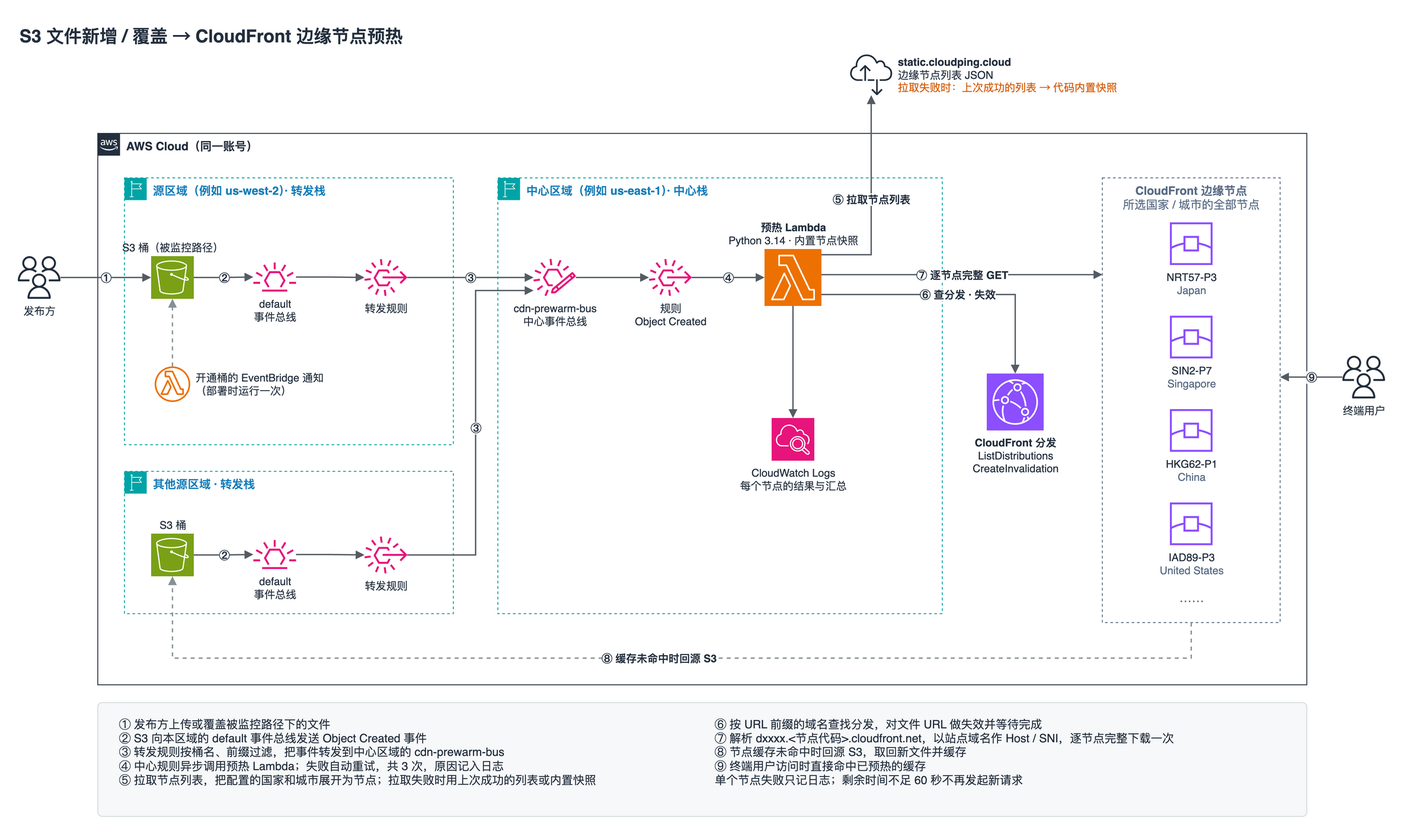
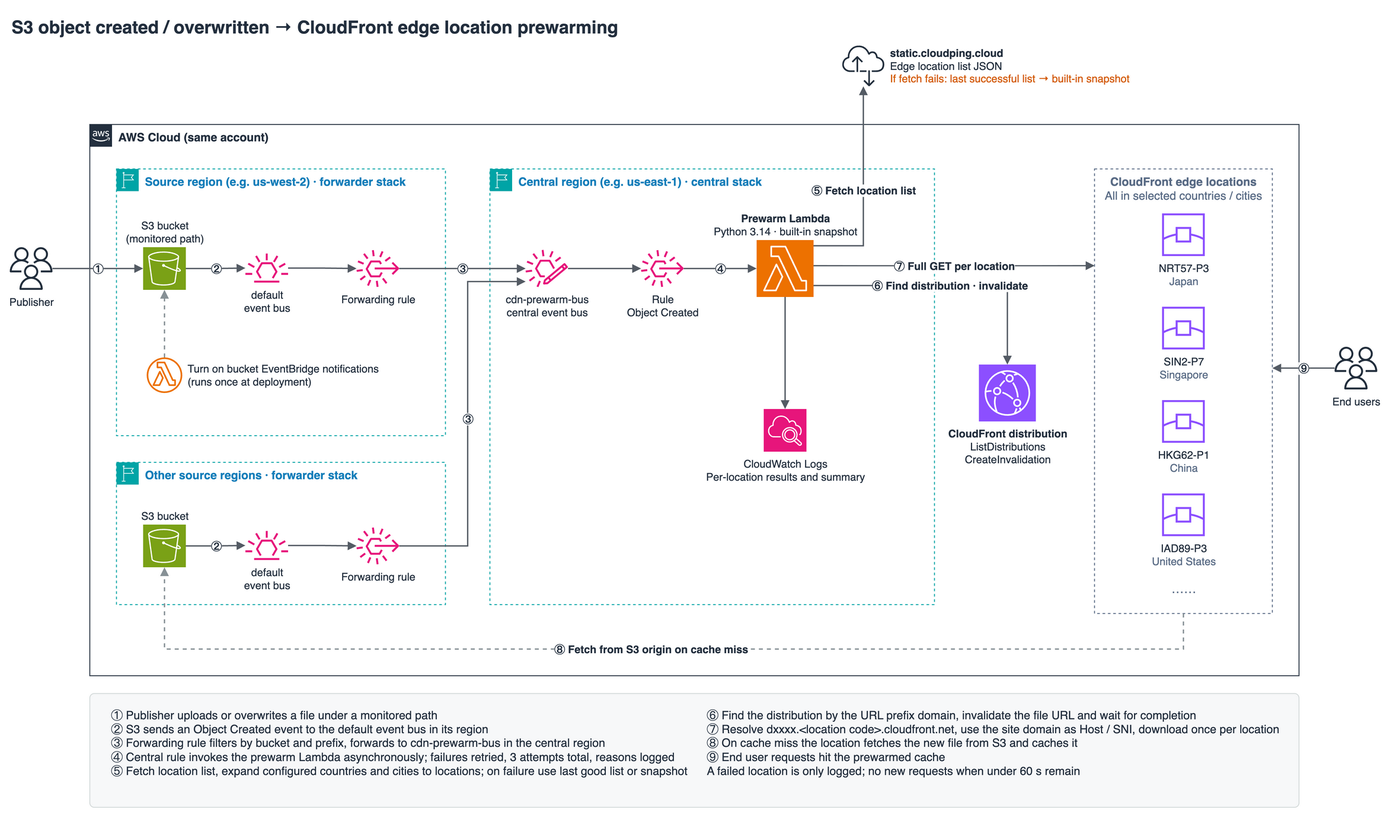
Translate README and architecture diagram to English

diff --git a/README.md b/README.md
@@ -1,39 +1,39 @@
-# CloudFront 边缘节点预热
+# CloudFront Edge Location Prewarming
 
-S3 指定路径下有对象新增或覆盖时，Lambda 到指定国家或城市的每个 CloudFront 边缘节点各完整下载一次该对象，让这些节点提前缓存最新版本。
+When an object is created or overwritten under a configured S3 path, a Lambda function downloads that object once, in full, from every CloudFront edge location in the configured countries or cities, so those locations cache the latest version ahead of user requests.
 
-![架构图](architecture.png)
+![Architecture diagram](architecture.png)
 
-架构图源文件是 `architecture.drawio`，可以用 draw.io 打开编辑。`architecture.png` 里也嵌入了图的源数据，同样可以直接用 draw.io 打开。
+The diagram source is `architecture.drawio`, which you can open and edit in draw.io. `architecture.png` also embeds the diagram source, so draw.io can open it directly too.
 
 ```
-各区域 S3 桶 ──(Object Created)──> 该区域 default 事件总线
-                                      │ 转发规则（按桶名、可选按前缀过滤）
+S3 bucket in each region ──(Object Created)──> default event bus in that region
+                                      │ forwarding rule (filters by bucket name, optionally by prefix)
                                       ▼
-                         中心区域 cdn-prewarm-bus ──> 预热 Lambda
-                                                        ├─ 1. CloudFront 失效该 URL，等待完成
-                                                        └─ 2. 逐节点 GET <域名>/<路径>
+                         cdn-prewarm-bus in central region ──> prewarm Lambda
+                                                        ├─ 1. Invalidate the URL in CloudFront and wait for completion
+                                                        └─ 2. GET <domain>/<path> from each edge location
 ```
 
-定向到指定节点的方法：解析 `<分发ID前缀>.<节点代码>.cloudfront.net`（例如 `d111111abcdef8.NRT57-P3.cloudfront.net`）得到该节点 IP，再以站点域名作为 Host/SNI 连接该 IP。响应头 `x-amz-cf-pop` 用来确认确实由目标节点处理。
+How a request is pinned to a specific edge location: resolve `<distribution ID prefix>.<location code>.cloudfront.net` (for example `d111111abcdef8.NRT57-P3.cloudfront.net`) to get that location's IP, then connect to that IP using the site domain as Host/SNI. The `x-amz-cf-pop` response header confirms that the target location handled the request.
 
-## 文件
+## Files
 
-| 文件 | 说明 |
+| File | Description |
 |---|---|
-| `dist/cdn-prewarm-central.yaml` | 中心栈：事件总线、预热 Lambda、日志组。只部署一次。 |
-| `dist/cdn-prewarm-forwarder.yaml` | 转发栈：部署在每个有被监控桶的区域，包括中心区域本身。 |
-| `src/prewarm.py`、`src/enable_s3_eventbridge.py` | Lambda 源码，已内联到上面的模板里。 |
-| `templates/`、`build.py` | 模板源文件。改了源码后运行 `python3 build.py` 重新生成 `dist/`。 |
-| `refresh_edge_snapshot.py` | 更新 Lambda 代码里内置的节点快照，见"节点列表"一节。 |
-| `architecture.drawio`、`architecture.png` | 架构图。 |
-| `deployer-policy.json` | 部署、更新、删除两个栈所需的 IAM 权限，见"部署所需权限"一节。 |
+| `dist/cdn-prewarm-central.yaml` | Central stack: event bus, prewarm Lambda, log group. Deploy once. |
+| `dist/cdn-prewarm-forwarder.yaml` | Forwarder stack: deploy in every region that has a monitored bucket, including the central region itself. |
+| `src/prewarm.py`, `src/enable_s3_eventbridge.py` | Lambda source code, inlined into the templates above. |
+| `templates/`, `build.py` | Template sources. After changing the source code, run `python3 build.py` to regenerate `dist/`. |
+| `refresh_edge_snapshot.py` | Updates the edge location snapshot built into the Lambda code. See "Edge location list". |
+| `architecture.drawio`, `architecture.png` | Architecture diagram. |
+| `deployer-policy.json` | IAM permissions needed to deploy, update, and delete both stacks. See "Permissions required for deployment". |
 
-## 部署
+## Deployment
 
-前提：桶、CloudFront 分发和中心栈在同一个 AWS 账号。Lambda 要在这个账号里按域名查找分发。
+Prerequisite: the buckets, the CloudFront distributions, and the central stack are in the same AWS account. The Lambda function looks up distributions by domain name in this account.
 
-**1. 部署中心栈**（选一个区域作为中心，例如 us-east-1）
+**1. Deploy the central stack** (pick one region as the central region, for example us-east-1)
 
 ```bash
 aws cloudformation deploy --region us-east-1 --stack-name cdn-prewarm \
@@ -45,9 +45,9 @@ aws cloudformation deploy --region us-east-1 --stack-name cdn-prewarm \
     "FilePatterns=*"
 ```
 
-记下输出 `EventBusArn`。
+Note the `EventBusArn` output.
 
-**2. 在每个有桶的区域部署转发栈**
+**2. Deploy the forwarder stack in every region that has a bucket**
 
 ```bash
 aws cloudformation deploy --region us-west-2 --stack-name cdn-prewarm-forwarder \
@@ -58,23 +58,23 @@ aws cloudformation deploy --region us-west-2 --stack-name cdn-prewarm-forwarder 
     "KeyPrefixes=static/;img/"
 ```
 
-用控制台部署也可以：CloudFormation → 创建堆栈 → 上传模板文件，然后按页面填写参数。
+You can also deploy from the console: CloudFormation → Create stack → Upload a template file, then fill in the parameters on the page.
 
-### 部署所需权限
+### Permissions required for deployment
 
-`deployer-policy.json` 是部署、更新、删除这两个栈所需的权限，可以直接挂给部署用的 IAM 用户或角色。我用一个只挂了这份策略的角色，实际跑过两个栈的创建、更新和删除。
+`deployer-policy.json` contains the permissions needed to deploy, update, and delete both stacks. You can attach it directly to the IAM user or role used for deployment. It has been tested by creating, updating, and deleting both stacks with a role that had only this policy attached.
 
-为了好读，CloudFormation、Lambda、EventBridge、CloudWatch Logs 都合并成了 `cloudformation:*`、`lambda:*`、`events:*`、`logs:*`，但资源仍限定在 `cdn-prewarm` 开头的栈、函数、事件总线、规则和日志组。少数只能对 `*` 授权的查询操作（如 `cloudformation:ValidateTemplate`、`logs:DescribeLogGroups`）单独列在一条里。
+For readability, CloudFormation, Lambda, EventBridge, and CloudWatch Logs actions are merged into `cloudformation:*`, `lambda:*`, `events:*`, and `logs:*`, but resources are still limited to stacks, functions, event buses, rules, and log groups whose names start with `cdn-prewarm`. The few read actions that can only be granted on `*` (such as `cloudformation:ValidateTemplate` and `logs:DescribeLogGroups`) are listed in a separate statement.
 
-IAM 没有合并成 `iam:*`，而是逐条列出。原因是 `iam:*` 会去掉 `iam:PassRole` 只能交给 Lambda 和 EventBridge 的限制，还会允许给角色挂任意托管策略（例如 `AdministratorAccess`），安全评审通常不会通过。
+IAM actions are listed one by one instead of being merged into `iam:*`. With `iam:*`, `iam:PassRole` would no longer be limited to Lambda and EventBridge, and the policy would allow attaching any managed policy (for example `AdministratorAccess`) to a role. Security reviews usually reject that.
 
-使用前提：
+Requirements:
 
-- 栈名必须以 `cdn-prewarm` 开头（例如 `cdn-prewarm`、`cdn-prewarm-forwarder`），中心栈的 `EventBusName` 也要以 `cdn-prewarm` 开头（默认 `cdn-prewarm-bus`）。策略里的资源都是按这个前缀限定的。要换前缀，把策略里所有 `cdn-prewarm` 一起替换。
-- 部署时要加 `--capabilities CAPABILITY_IAM`，在控制台则勾选"我确认 AWS CloudFormation 可能创建 IAM 资源"。
-- 策略里的 `iam:PassRole` 限定只能把这些角色交给 Lambda 和 EventBridge 使用。
+- Stack names must start with `cdn-prewarm` (for example `cdn-prewarm` and `cdn-prewarm-forwarder`), and the central stack's `EventBusName` must also start with `cdn-prewarm` (default `cdn-prewarm-bus`). All resources in the policy are scoped by this prefix. To use a different prefix, replace every `cdn-prewarm` in the policy.
+- Pass `--capabilities CAPABILITY_IAM` when deploying. In the console, check "I acknowledge that AWS CloudFormation might create IAM resources".
+- The `iam:PassRole` statement in the policy only allows passing these roles to Lambda and EventBridge.
 
-用控制台上传模板时，控制台会先把模板存到 `cf-templates-*` 桶，还需要加下面这条。这一条没有包含在上面的实测里：
+When you upload a template in the console, the console first stores it in a `cf-templates-*` bucket, so you also need the statement below. This statement was not part of the test described above:
 
 ```json
 {
@@ -84,89 +84,89 @@ IAM 没有合并成 `iam:*`，而是逐条列出。原因是 `iam:*` 会去掉 `
 }
 ```
 
-如果组织用 SCP 要求创建角色时必须带权限边界（permissions boundary），需要在模板的三个 `AWS::IAM::Role` 上加 `PermissionsBoundary` 属性。
+If your organization has an SCP that requires a permissions boundary when creating roles, add a `PermissionsBoundary` property to the three `AWS::IAM::Role` resources in the templates.
 
-栈创建的三个角色各自的权限：
+Permissions of the three roles created by the stacks:
 
-| 栈 | 角色 | 使用者 | 权限 |
+| Stack | Role | Used by | Permissions |
 |---|---|---|---|
-| 中心栈 | `PrewarmRole` | 预热 Lambda | 写自己的日志组；`cloudfront:ListDistributions`（只能写 `*`）；本账号所有分发上的 `cloudfront:CreateInvalidation`、`cloudfront:GetInvalidation` |
-| 转发栈 | `ForwardRole` | 转发规则 | `events:PutEvents`，只限中心事件总线 |
-| 转发栈 | `EnableEventBridgeRole` | 开通通知的 Lambda | 写自己的日志组；`BucketNames` 里每个桶的 `s3:GetBucketLocation`、`s3:GetBucketNotification`、`s3:PutBucketNotification` |
+| Central stack | `PrewarmRole` | Prewarm Lambda | Write to its own log group; `cloudfront:ListDistributions` (only grantable on `*`); `cloudfront:CreateInvalidation` and `cloudfront:GetInvalidation` on all distributions in this account |
+| Forwarder stack | `ForwardRole` | Forwarding rule | `events:PutEvents`, limited to the central event bus |
+| Forwarder stack | `EnableEventBridgeRole` | Lambda that turns on notifications | Write to its own log group; `s3:GetBucketLocation`, `s3:GetBucketNotification`, and `s3:PutBucketNotification` on each bucket in `BucketNames` |
 
-## 参数
+## Parameters
 
-### 中心栈（对应 Lambda 环境变量）
+### Central stack (mapped to Lambda environment variables)
 
-| 参数 | 环境变量 | 说明 |
+| Parameter | Environment variable | Description |
 |---|---|---|
-| S3Paths | `S3_PATHS` | 监控的 S3 路径，`;` 分隔。格式 `桶/前缀/`；只写 `桶` 表示整个桶。前缀按目录处理，`static` 等同于 `static/`。 |
-| CdnUrlPrefixes | `CDN_URL_PREFIXES` | 每个 S3 路径对应一个 URL 前缀，按位置一一对应。域名填分发的备用域名（如 `www.example.com`）或 `dxxxx.cloudfront.net`。 |
-| EdgeCountriesOrCities | `EDGE_COUNTRIES_OR_CITIES` | 要预热的国家和/或城市，`;` 分隔，可以混用，例如 `Tokyo;Germany;United States`。默认值也是这个。规则见下方"国家和城市的写法"。 |
-| FilePatterns | `FILE_PATTERNS` | 只预热文件名匹配这些模式的文件，`;` 分隔，例如 `*.mp4;*.m3u8;*.ts`。默认 `*`，即所有文件。按文件名（key 最后一个 `/` 之后的部分）匹配，不区分大小写，`*` 匹配任意字符，`?` 匹配一个字符。对所有 S3 路径生效。不匹配的文件跳过，日志里记一条 `file name does not match FILE_PATTERNS`。 |
-| InvalidateBeforePrewarm | `INVALIDATE_BEFORE_PREWARM` | 默认 `true`，预热前先失效该 URL 并等待完成。覆盖上传时必须开启，否则节点会继续返回旧缓存。 |
-| EdgeLocationsUrl | `EDGE_LOCATIONS_URL` | 节点列表 JSON，Lambda 运行时拉取，缓存 1 小时。默认 `https://static.cloudping.cloud/cdn/cloudfront-edge-locations.json`。拉取失败时改用代码内置的快照，见"节点列表"一节。 |
+| S3Paths | `S3_PATHS` | S3 paths to monitor, separated by `;`. Format `bucket/prefix/`; `bucket` alone means the whole bucket. Prefixes are treated as directories, so `static` is the same as `static/`. |
+| CdnUrlPrefixes | `CDN_URL_PREFIXES` | One URL prefix per S3 path, matched by position. Use the distribution's alternate domain name (such as `www.example.com`) or `dxxxx.cloudfront.net` as the domain. |
+| EdgeCountriesOrCities | `EDGE_COUNTRIES_OR_CITIES` | Countries and/or cities to prewarm, separated by `;`. You can mix them, for example `Tokyo;Germany;United States`, which is also the default. See "Writing country and city names" below. |
+| FilePatterns | `FILE_PATTERNS` | Only prewarm files whose names match these patterns, separated by `;`, for example `*.mp4;*.m3u8;*.ts`. Default `*`, meaning all files. Matching uses the file name (the part of the key after the last `/`), is case-insensitive, `*` matches any characters, and `?` matches one character. Applies to all S3 paths. Files that don't match are skipped, with a `file name does not match FILE_PATTERNS` log entry. |
+| InvalidateBeforePrewarm | `INVALIDATE_BEFORE_PREWARM` | Default `true`: invalidate the URL and wait for completion before prewarming. Keep it on if files are overwritten, otherwise edge locations keep serving the old cached copy. |
+| EdgeLocationsUrl | `EDGE_LOCATIONS_URL` | Edge location list JSON, fetched by the Lambda at runtime and cached for 1 hour. Default `https://static.cloudping.cloud/cdn/cloudfront-edge-locations.json`. If fetching fails, the snapshot built into the code is used. See "Edge location list". |
 
-只需要配置路径，不需要列出具体文件。路径下（包括子目录）任何文件新增或覆盖，都会自动预热这个文件。部署之前就已经存在的文件不会被预热。
+You only configure paths, not individual files. Any file created or overwritten under a path (including subdirectories) is prewarmed automatically. Files that existed before deployment are not prewarmed.
 
-预热 URL = URL 前缀 + 文件在 S3 路径之后的部分，会做 URL 编码。例如：
+Prewarm URL = URL prefix + the part of the key after the S3 path, URL-encoded. For example:
 
-| S3 路径 | URL 前缀 | 上传的文件 | 预热 URL |
+| S3 path | URL prefix | Uploaded file | Prewarm URL |
 |---|---|---|---|
 | `bucket-a/static/` | `https://www.example.com/static/` | `s3://bucket-a/static/js/app.js` | `https://www.example.com/static/js/app.js` |
 | `bucket-b/img/` | `https://img.example.com/` | `s3://bucket-b/img/logo.png` | `https://img.example.com/logo.png` |
 
-同一个文件匹配多条路径时，每条都会预热。
+If a file matches several paths, each of them is prewarmed.
 
-分发不用单独配置。Lambda 用 URL 前缀里的域名调 CloudFront API 查找对应的分发：先找完全相同的备用域名，再找通配域名（`*.example.com` 匹配 `cdn.example.com`，不匹配 `a.b.example.com`），也可以直接写 `dxxxx.cloudfront.net`。查询结果缓存 1 小时，找不到时会立即重查一次。仍然找不到时，本次调用失败并重试，日志里会写明是哪个域名。
+Distributions don't need separate configuration. The Lambda uses the domain in the URL prefix to find the matching distribution through the CloudFront API: first an exact alternate domain name match, then a wildcard match (`*.example.com` matches `cdn.example.com` but not `a.b.example.com`). You can also use `dxxxx.cloudfront.net` directly. Lookup results are cached for 1 hour, and a miss triggers one immediate re-lookup. If the distribution still isn't found, the invocation fails and is retried, and the log names the domain.
 
-#### 国家和城市的写法
+#### Writing country and city names
 
-名称取自节点列表的 `country` 和 `city` 字段，也可以在 `src/prewarm.py` 的 `EDGE_SNAPSHOT` 里查到。
+Names come from the `country` and `city` fields of the edge location list. You can also find them in `EDGE_SNAPSHOT` in `src/prewarm.py`.
 
-- 写国家，预热这个国家的全部节点，例如 `Japan`、`United States`。香港和台北的节点在 `China` 下。
-- 写城市，只预热这个城市的节点，例如 `Tokyo`、`Hong Kong`、`Frankfurt`。
-- 国家和城市可以混用。重叠的节点只预热一次，例如 `Japan;Tokyo` 等同于 `Japan`。
-- 不区分大小写，可以不写重音、空格和标点：`montreal` 能匹配 `Montréal, QC`，`Washington DC` 能匹配 `Washington D. C.`。
-- 城市名后的州或地区代码可以省略：`Los Angeles` 能匹配 `Los Angeles, CA`，`Taipei` 能匹配 `Taipei, TW`。`Dallas/Fort Worth, TX` 写 `Dallas` 或 `Fort Worth` 都可以。
-- 匹配不到节点的名称会记一条警告，其余名称照常预热。
+- A country prewarms all edge locations in that country, for example `Japan` or `United States`. Hong Kong and Taipei locations are listed under `China`.
+- A city prewarms only the locations in that city, for example `Tokyo`, `Hong Kong`, or `Frankfurt`.
+- Countries and cities can be mixed. Overlapping locations are prewarmed once, so `Japan;Tokyo` is the same as `Japan`.
+- Matching is case-insensitive and ignores accents, spaces, and punctuation: `montreal` matches `Montréal, QC`, and `Washington DC` matches `Washington D. C.`.
+- The state or region code after a city name can be omitted: `Los Angeles` matches `Los Angeles, CA`, and `Taipei` matches `Taipei, TW`. For `Dallas/Fort Worth, TX`, either `Dallas` or `Fort Worth` works.
+- A name that matches no edge location logs a warning, and the other names are prewarmed as usual.
 
-每次预热的 `prewarm_start` 日志里有 `nodes_per_name` 字段，列出每个名称匹配到几个节点，例如 `{"Japan": 7, "Hong Kong": 5}`，可以用来检查名称有没有写对。
+The `prewarm_start` log entry of each prewarm has a `nodes_per_name` field showing how many locations each name matched, for example `{"Japan": 7, "Hong Kong": 5}`. Use it to check that names are written correctly.
 
-### 转发栈
+### Forwarder stack
 
-| 参数 | 说明 |
+| Parameter | Description |
 |---|---|
-| CentralEventBusArn | 中心栈输出的 `EventBusArn`。 |
-| BucketNames | 本区域被监控的桶，`;` 分隔，不能有空格，例如 `bucket-a;bucket-b`。 |
-| KeyPrefixes | 可选，只转发这些前缀下的对象，`;` 分隔，例如 `static/;img/`。建议填写，可以挡掉访问日志等无关写入。 |
+| CentralEventBusArn | The `EventBusArn` output of the central stack. |
+| BucketNames | Monitored buckets in this region, separated by `;` with no spaces, for example `bucket-a;bucket-b`. |
+| KeyPrefixes | Optional. Only forward objects under these prefixes, separated by `;`, for example `static/;img/`. Recommended, because it filters out unrelated writes such as access logs. |
+| EnableBucketEventBridge | Default `true`: turns on "Send notifications to Amazon EventBridge" for the buckets, keeping any other notification configuration already on the buckets. Deleting the stack does not turn this setting off. |
 
-所有列表参数（中心栈和转发栈）都用 `;` 分隔。
-| EnableBucketEventBridge | 默认 `true`，为桶打开 "Send notifications to Amazon EventBridge"，保留桶上已有的其他通知配置。删除栈时不会关闭这个开关。 |
+All list parameters (in both the central and forwarder stacks) are separated by `;`.
 
-## 节点列表
+## Edge location list
 
-Lambda 按下面的顺序取节点列表：
+The Lambda gets the edge location list in this order:
 
-1. 1 小时内从 `EDGE_LOCATIONS_URL` 拉到的列表。
-2. 重新从 `EDGE_LOCATIONS_URL` 拉取。
-3. 拉取失败（网络错误、非 200、不是 JSON、列表里没有节点）时，用本次 Lambda 运行环境里上一次拉取成功的列表。
-4. 运行环境里还没有拉取成功过，就用代码内置的快照。快照只保留"国家 → 城市 → 节点代码"，生成日期写在 `EDGE_SNAPSHOT_DATE`。
+1. The list fetched from `EDGE_LOCATIONS_URL` within the last hour.
+2. A fresh fetch from `EDGE_LOCATIONS_URL`.
+3. If the fetch fails (network error, non-200 status, invalid JSON, or no locations in the list), the last list successfully fetched in the current Lambda execution environment.
+4. If the execution environment has never fetched the list successfully, the snapshot built into the code. The snapshot keeps only "country → city → location code", and its generation date is in `EDGE_SNAPSHOT_DATE`.
 
-每次预热的 `prewarm_start` 日志里有 `edge_list` 字段，记录本次用的是哪份列表：`url`、`url, fetched <时间>` 或 `snapshot <日期>`。
+The `prewarm_start` log entry of each prewarm has an `edge_list` field recording which list was used: `url`, `url, fetched <time>`, or `snapshot <date>`.
 
-更新快照：
+To update the snapshot:
 
 ```bash
-python3 refresh_edge_snapshot.py   # 重写 src/prewarm.py 里的 EDGE SNAPSHOT 段
-python3 build.py                   # 重新生成 dist/ 模板
+python3 refresh_edge_snapshot.py   # rewrites the EDGE SNAPSHOT section in src/prewarm.py
+python3 build.py                   # regenerates the dist/ templates
 ```
 
-然后用新模板更新中心栈。
+Then update the central stack with the new template.
 
-## 查看结果
+## Viewing results
 
-日志组 `/aws/lambda/<中心栈名>-prewarm`。每个节点一完成就写一条 `prewarm_result`，所有节点结束后每个文件写一条 `prewarm_summary`。CloudWatch Logs Insights 查询没成功的节点：
+Log group: `/aws/lambda/<central stack name>-prewarm`. A `prewarm_result` entry is written as soon as each edge location finishes, and a `prewarm_summary` entry is written per file after all locations finish. CloudWatch Logs Insights query for locations that did not succeed:
 
 ```
 fields @timestamp, url, node, outcome, error
@@ -174,27 +174,27 @@ fields @timestamp, url, node, outcome, error
 | sort @timestamp desc
 ```
 
-`prewarm_result` 的 `outcome` 字段：
+The `outcome` field of `prewarm_result`:
 
-| outcome | 含义 |
+| outcome | Meaning |
 |---|---|
-| `ok` | 返回 2xx，且 `x-amz-cf-pop` 等于目标节点 |
-| `failed` | 这个节点出错：解析不到 IP、所有 IP 都连不上、超时、返回非 2xx、由别的节点响应，或其他任何异常 |
-| `not_started` | Lambda 剩余时间不足 60 秒，没有发起请求 |
-| `aborted` | 下载到一半时 Lambda 剩余时间不足 15 秒，主动中止 |
+| `ok` | Returned 2xx, and `x-amz-cf-pop` equals the target location |
+| `failed` | This location had an error: no IP resolved, none of the IPs reachable, timeout, non-2xx response, response from a different location, or any other exception |
+| `not_started` | Less than 60 seconds of Lambda time remained, so no request was sent |
+| `aborted` | The download was stopped midway because less than 15 seconds of Lambda time remained |
 
-`etag_match` 表示节点返回的 ETag 与 S3 事件中的一致。`prewarm_summary` 里有各类结果的数量，以及 `failed_nodes`、`unfinished_nodes`（`not_started` 和 `aborted` 的节点）、`skipped_urls`。
+`etag_match` indicates whether the ETag returned by the location matches the one in the S3 event. `prewarm_summary` contains counts for each outcome, plus `failed_nodes`, `unfinished_nodes` (locations that were `not_started` or `aborted`), and `skipped_urls`.
 
-## 用 curl 验证
+## Verifying with curl
 
-上传文件后，用 curl 直接请求某个节点，看它是否已经缓存了新文件：
+After uploading a file, request it from a specific edge location with curl to check whether that location has cached the new file:
 
 ```bash
-DOMAIN=www.example.com              # CdnUrlPrefixes 里的域名
-FILE_PATH='/static/js/应用.js'       # 要验证的文件路径，可以含中文或空格，下面会自动做 URL 编码
-NODE=NRT12-P5                       # 节点代码，从这次预热的 prewarm_result 日志里取，见下方说明
+DOMAIN=www.example.com              # the domain in CdnUrlPrefixes
+FILE_PATH='/static/js/my app.js'    # path of the file to check; may contain spaces or non-ASCII characters, it is URL-encoded below
+NODE=NRT12-P5                       # location code, taken from this prewarm's prewarm_result logs; see notes below
 
-# 分发域名 dxxxx.cloudfront.net 的前缀。域名走通配备用域名（*.example.com）时，这里查不到，请到 CloudFront 控制台复制
+# Prefix of the distribution domain dxxxx.cloudfront.net. If the domain uses a wildcard alternate domain name (*.example.com), this lookup finds nothing; copy it from the CloudFront console instead
 DIST=$(aws cloudfront list-distributions --output text \
   --query "DistributionList.Items[?Aliases.Items && contains(Aliases.Items, '$DOMAIN')].DomainName | [0]" | cut -d. -f1)
 
@@ -205,11 +205,11 @@ curl -sI -m 15 --retry 3 --retry-all-errors -H 'Accept-Encoding: gzip, deflate, 
   "https://$DOMAIN$URL_PATH" | grep -iE '^(HTTP/|x-cache:|x-amz-cf-pop:|etag:|age:)'
 ```
 
-`--connect-to` 让 curl 把连接发到节点域名 `dxxxx.<节点代码>.cloudfront.net`，网址、Host 和 SNI 仍然是站点域名，和用户真实访问时一样。curl 会自己解析节点域名，一个 IP 连不上会自动换下一个；连接中途被重置时，`--retry 3 --retry-all-errors` 会再试最多 3 次（需要 curl 7.71 及以上，macOS 自带的版本满足）。
+`--connect-to` makes curl connect to the location domain `dxxxx.<location code>.cloudfront.net` while the URL, Host, and SNI stay the site domain, the same as a real user request. curl resolves the location domain itself and moves on to the next IP if one is unreachable. If the connection is reset midway, `--retry 3 --retry-all-errors` tries up to 3 more times (requires curl 7.71 or later; the version shipped with macOS qualifies).
 
-不要把 `dxxxx.<节点代码>.cloudfront.net` 直接当网址访问：CloudFront 只认分发的备用域名和 `dxxxx.cloudfront.net`，HTTPS 会握手失败，HTTP 会返回 403。这个域名只用来找到节点的 IP。
+Don't use `dxxxx.<location code>.cloudfront.net` as the URL directly. CloudFront only accepts the distribution's alternate domain names and `dxxxx.cloudfront.net`, so HTTPS fails the handshake and HTTP returns 403. That domain is only used to find the location's IP.
 
-预热成功时的输出类似：
+Output for a successful prewarm looks like this:
 
 ```
 HTTP/2 200
@@ -219,15 +219,15 @@ x-amz-cf-pop: NRT12-P5
 age: 55
 ```
 
-判断方法：
+How to read it:
 
-- `x-amz-cf-pop` 等于 `NODE`，说明请求确实落在这个节点上。
-- `x-cache` 为 `Hit from cloudfront`，说明这个节点已经有缓存。
-- `etag` 等于 S3 上这个文件的 ETag，说明缓存的是新版本。S3 上的 ETag 可以用 `aws s3api head-object --bucket <桶> --key <key> --query ETag` 查看。
+- `x-amz-cf-pop` equals `NODE`: the request really reached this location.
+- `x-cache` is `Hit from cloudfront`: this location already has the file cached.
+- `etag` equals the file's ETag in S3: the cached copy is the new version. Check the S3 ETag with `aws s3api head-object --bucket <bucket> --key <key> --query ETag`.
 
-几点说明：
+Notes:
 
-- **节点代码要用这次预热过的。** 节点会上线下线，网页或旧列表里的节点可能已经不在当前列表中，Lambda 不会预热它，有的甚至连不上。在中心栈的日志组里用 Logs Insights 查这个文件预热成功的节点：
+- **Use a location code from this prewarm.** Edge locations come and go. A location from a web page or an old list may no longer be in the current list, so the Lambda won't prewarm it, and some can't be reached at all. Query the central stack's log group with Logs Insights for the locations where this file was prewarmed successfully:
 
   ```
   fields node, x_cache, etag_match
@@ -235,26 +235,26 @@ age: 55
   | sort node
   ```
 
-- **没有任何输出**：说明从你的网络连不上这个节点，和是否预热无关。可以去掉 `-s` 看 curl 的报错，或换一个节点、换一个网络再试。
-- 用 `-I` 只取响应头，不会下载整个文件。
-- 请求一定要带 `Accept-Encoding: gzip, deflate, br`。不带这个头请求的是另一份缓存，会显示 `Miss`。
+- **No output at all**: your network can't reach this location, which has nothing to do with prewarming. Remove `-s` to see curl's error, or try another location or another network.
+- `-I` fetches only the response headers and doesn't download the whole file.
+- Always send `Accept-Encoding: gzip, deflate, br`. Without this header you hit a different cached copy and see `Miss`.
 
-## 容错
+## Fault tolerance
 
-- 单个节点的任何错误只记为这个节点 `failed`，其他节点照常。失败的节点不重试。
-- 一个文件匹配多条路径时，某条路径的域名找不到分发，只跳过这一条，记一条 ERROR 日志，写入 `skipped_urls`，其他路径照常。
-- Lambda 最长运行 15 分钟。剩余时间不足 60 秒时不再发起新请求，下载中的请求在剩余 15 秒时中止，保证所有节点的结果和汇总都能写进日志。因时间不够没做完的节点不会触发重试，因为重试还会遇到同样的时间限制。
-- 节点列表拉不到时，依次改用上次拉取成功的列表和内置快照，见"节点列表"一节。
+- Any error at a single edge location only marks that location as `failed`; the other locations continue. Failed locations are not retried.
+- If a file matches several paths and the domain of one path has no matching distribution, only that path is skipped: an ERROR log entry is written, the URL is added to `skipped_urls`, and the other paths continue.
+- The Lambda runs for at most 15 minutes. With less than 60 seconds left it sends no new requests, and in-flight downloads are stopped at 15 seconds left, so that every location's result and the summary make it into the logs. Locations left unfinished for lack of time don't trigger a retry, because a retry would hit the same time limit.
+- If the edge location list can't be fetched, the last successfully fetched list and then the built-in snapshot are used. See "Edge location list".
 
-以下情况本次调用失败，Lambda 自动再重试 2 次（共 3 次）：
+In the following cases the invocation fails, and Lambda retries it 2 more times (3 attempts in total):
 
-- 发起的请求一个都没成功，并且至少有一个是 `failed`。
-- 匹配的路径都找不到分发。
-- 配置的国家和城市全都匹配不到节点。
-- 配置错误，例如 `S3Paths` 和 `CdnUrlPrefixes` 条数不一致。
-- 失效请求报错，或者 5 分钟内没有完成。
+- None of the requests sent succeeded, and at least one was `failed`.
+- None of the matching paths has a matching distribution.
+- None of the configured countries and cities matches any edge location.
+- Configuration error, for example `S3Paths` and `CdnUrlPrefixes` have different numbers of entries.
+- The invalidation request returns an error or doesn't complete within 5 minutes.
 
-3 次都失败的事件直接丢弃，不保存，每次失败的原因都记在日志组里。方案没有用死信队列，因为预热漏掉一次的影响很小：用户第一次访问时节点会自己回源，只是这一次慢一点。需要补预热时，重新上传该文件即可。查 Lambda 报错的日志：
+Events that fail all 3 attempts are dropped without being stored, and the reason for each failure is in the log group. The solution doesn't use a dead-letter queue because missing a prewarm has little impact: on the first user request the edge location fetches from the origin itself, and only that one request is slower. To prewarm again, upload the file again. Log query for Lambda errors:
 
 ```
 fields @timestamp, errorType, errorMessage, message
@@ -262,16 +262,16 @@ fields @timestamp, errorType, errorMessage, message
 | sort @timestamp desc
 ```
 
-调用失败时，错误原因在 `errorMessage` 字段；跳过某条路径时，原因在 `message` 字段。
+When an invocation fails, the reason is in the `errorMessage` field. When a path is skipped, the reason is in the `message` field.
 
-EventBridge 跨区域转发失败时会自动重试，最长 24 小时，之后同样丢弃。
+If cross-region forwarding in EventBridge fails, EventBridge retries automatically for up to 24 hours and then drops the event as well.
 
-## 注意事项
+## Caveats
 
-- **分发必须允许缓存。** 如果缓存策略是 `Managed-CachingDisabled` 或 TTL 为 0，预热不会有效果。
-- **流量与费用。** 每上传一个文件，Lambda 从 CloudFront 下载的流量约为 `文件大小 × 节点数`，例如 100 MB 文件预热 50 个节点就是 5 GB，按 CloudFront 数据传输费计费。回源 S3 的流量会少一些，因为多个节点共用区域边缘缓存。CloudFront 失效每月前 1000 条路径免费，之后每条 $0.005。
-- **压缩版本。** 预热请求带 `Accept-Encoding: gzip, deflate, br`，与浏览器一致。不带该头的客户端（例如默认的 curl）命中的是另一份缓存。
-- **节点列表。** 列表来自第三方站点 static.cloudping.cloud，有些节点可能已经下线。下线节点会记为失败，不影响其他节点。一个节点通常有多个 IP，某个 IP 连不上时会换下一个。
-- **不要监控日志写入的路径。** 如果桶的访问日志或 CloudFront 日志写在被监控的路径下，每次预热产生的日志又会触发预热，形成循环。
-- **改配置。** 直接在 Lambda 控制台改环境变量可以立即生效，但下次更新栈时会被模板参数覆盖。长期修改请更新栈参数。
-- **删除事件。** 删除事件不触发任何操作。
+- **The distribution must allow caching.** If the cache policy is `Managed-CachingDisabled` or the TTL is 0, prewarming has no effect.
+- **Traffic and cost.** For every uploaded file, the Lambda downloads about `file size × number of locations` from CloudFront. For example, prewarming a 100 MB file at 50 locations is 5 GB, billed as CloudFront data transfer. Origin traffic from S3 is lower, because several locations share a regional edge cache. The first 1,000 CloudFront invalidation paths each month are free, and each additional path costs $0.005.
+- **Compressed versions.** Prewarm requests send `Accept-Encoding: gzip, deflate, br`, like a browser. Clients that don't send this header (for example curl by default) hit a different cached copy.
+- **Edge location list.** The list comes from a third-party site, static.cloudping.cloud, and some locations in it may be offline. Offline locations are recorded as failed and don't affect the others. A location usually has several IPs, and the next IP is tried when one can't be reached.
+- **Don't monitor paths that logs are written to.** If the bucket's access logs or CloudFront logs are written under a monitored path, the logs produced by each prewarm trigger another prewarm, creating a loop.
+- **Changing configuration.** Editing environment variables in the Lambda console takes effect immediately, but the next stack update overwrites them with the template parameters. For lasting changes, update the stack parameters.
+- **Delete events.** Delete events don't trigger anything.
